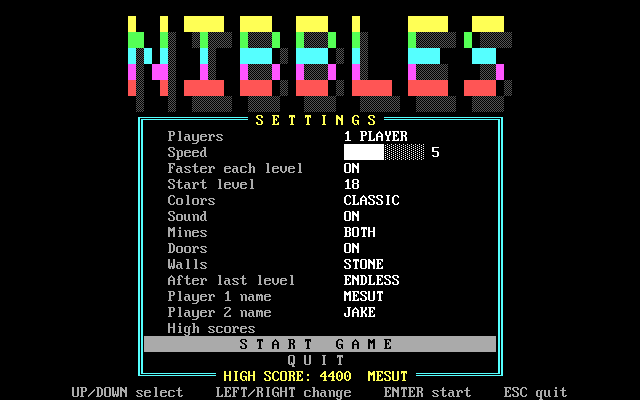
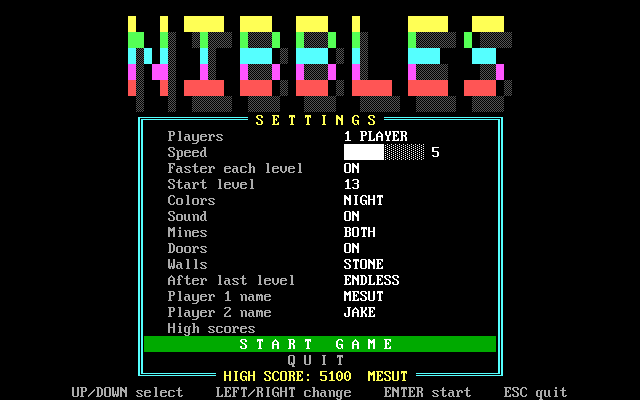
v10

Changed region(s): [[0.2188, 0.84, 0.7812, 0.9], [0.5312, 0.48, 0.625, 0.51], [0.5, 0.93, 0.5312, 0.96]]

diff --git a/README.md b/README.md
@@ -111,8 +111,8 @@ a folder that is write-protected.
 | Arrow keys (or keypad 8 2 4 6) | Player 1 steers |
 | W A S D | Player 2 steers (in one player mode they steer player 1, too) |
 | P | Pause |
-| ESC | Quit to the menu (asks Yes / No) |
-| SPACE or ENTER | Close a message box |
+| ESC | Quit to the menu (asks Yes / No: arrow keys + ENTER, or Y / N; the default is No) |
+| SPACE or ENTER | Close a message box (ESC in a message box also offers to quit to the menu) |
 
 Menus: UP / DOWN select a line, LEFT / RIGHT (or SPACE) change a setting, ENTER starts the
 game (on the two name lines ENTER lets you type a name, on the **High scores** line it shows the
@@ -293,6 +293,14 @@ Instead of the command line you can also open `NIBBLESD.BAS` in the QB64-PE edit
 ## History
 
 Newest version first.
+
+### Version 10 - 2026-10-16
+
+- The Yes / No question (quit to the menu) is now a small menu: select with the arrow keys or
+  TAB and confirm with ENTER, or press Y / N; ESC means No, and No is preselected
+- ESC now also works in the message boxes (level start, pause, level complete ...): it asks
+  "Quit to the menu?" and, if you say No, shows the box again
+- The **START GAME** line of the settings menu is green
 
 ### Version 9 - 2026-10-15
 
